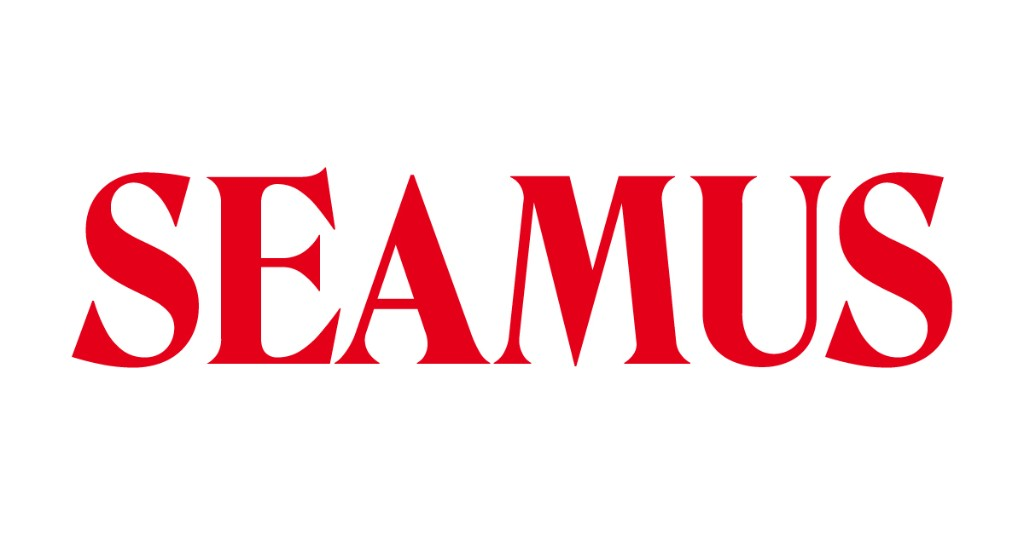
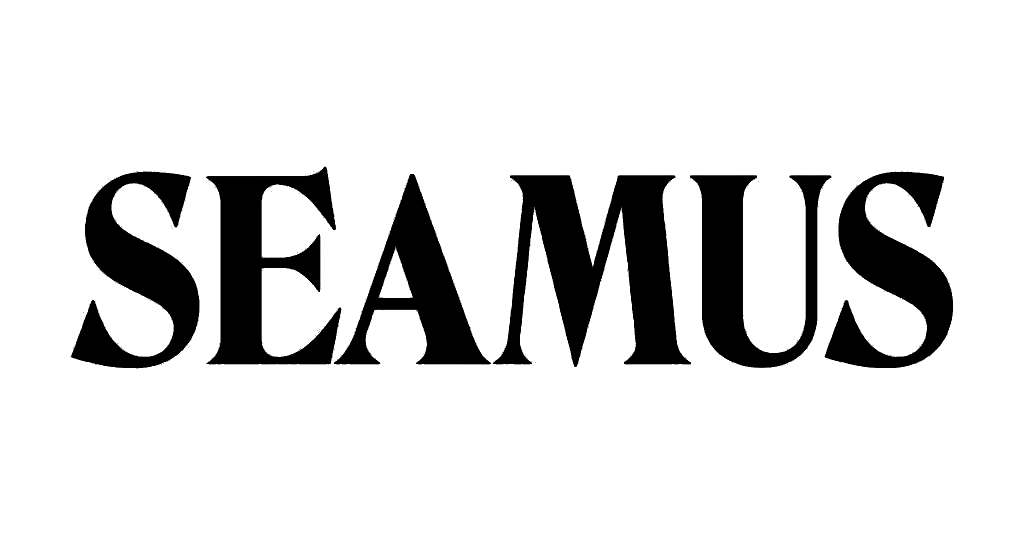
ㅁㄴㅇㅁㄴㅇㅇㅇ

Changed region(s): [[0.0625, 0.2991, 0.9375, 0.6879]]

diff --git a/src/components/Fragrance.tsx b/src/components/Fragrance.tsx
@@ -49,8 +49,8 @@ export function Fragrance() {
 
         <div className="fragrance-page__note">
           <p>
-            브랜드별 입고 상품과 재고는 시즌과 매장 상황에 따라 달라질 수 있습니다.
-            원하는 브랜드가 있다면 방문 전에 문의해주세요.
+            브랜드별 입고 상품과 재고는 시즌과 매장 상황에 따라 달라질 수 있는 점
+            참고부탁드립니다.
           </p>
           <a href="/#visit" className="text-link">
             Visit Store

diff --git a/src/styles/main.css b/src/styles/main.css
@@ -673,9 +673,7 @@ button {
 }
 .fragrance-page__grid {
   display: grid;
-  gap: 1px;
-  background: var(--color-border);
-  border: 1px solid var(--color-border);
+  gap: 0;
 }
 .fragrance-brand-card {
   display: grid;